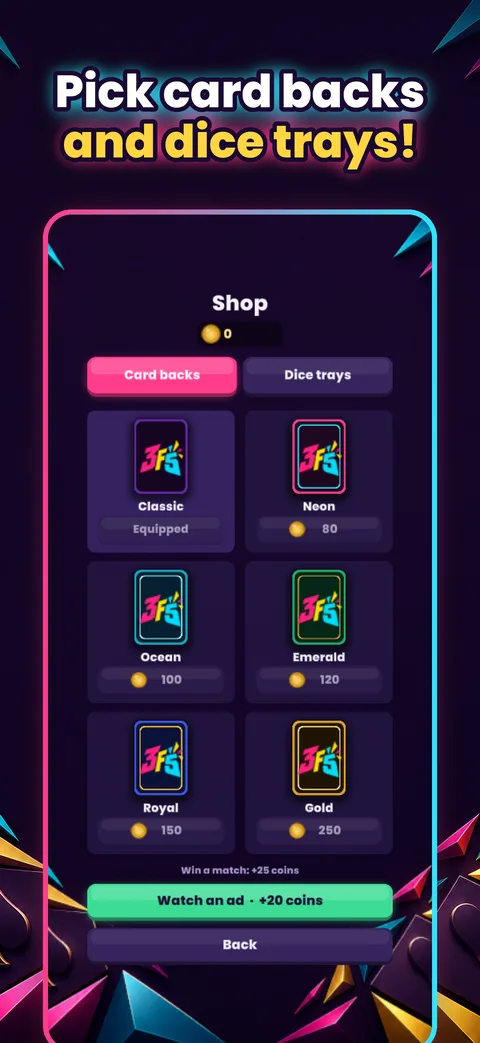
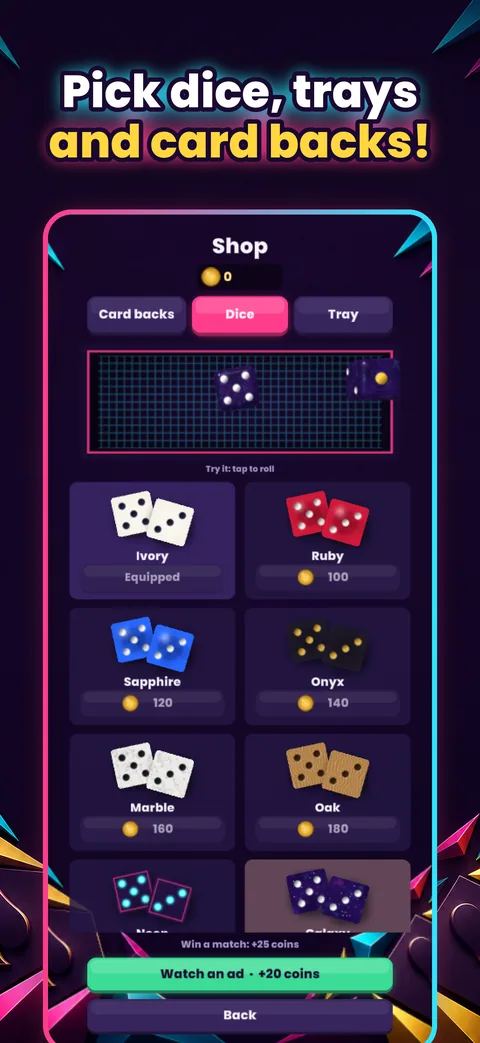
3 Force 5: kumar çağrıştıran ifadeler değişti (şans oyunu → cesaret ve strateji), yeni mağaza görselleri, zar çeşitleri

diff --git a/threeforcefive/index.html b/threeforcefive/index.html
@@ -51,8 +51,8 @@
     <div class="copy">
       <img class="logo" src="/threeforcefive/img/logo.webp" alt="3 Force 5" width="640" height="609">
       <div class="say"><span data-l="tr">Bir kart daha?</span><span data-l="en">One more card?</span></div>
-      <p data-l="tr">İskambil kartları, iki zar ve bir yazı-tura parası tek bir hızlı şans ve cesaret oyununda. Kartlarını diz, puanını büyüt; ama aynı sayıyı ikinci kez çekersen patlarsın!</p>
-      <p data-l="en">Playing cards, two dice and a coin flip in one quick game of luck and nerve. Build your row and grow your score, but draw the same number twice and you bust!</p>
+      <p data-l="tr">İskambil kartları, iki zar ve bir yazı-tura parası tek bir hızlı cesaret ve strateji oyununda. Kartlarını diz, puanını büyüt; ama aynı sayıyı ikinci kez çekersen patlarsın!</p>
+      <p data-l="en">Playing cards, two dice and a coin flip in one quick game of nerve and strategy. Build your row and grow your score, but draw the same number twice and you bust!</p>
       <ul class="chips">
         <li><span data-l="tr">Kart oyunu</span><span data-l="en">Card game</span></li>
         <li><span data-l="tr">Ücretsiz</span><span data-l="en">Free</span></li>
@@ -79,19 +79,19 @@
     <h2 class="title"><span data-l="tr">Oyundan kareler</span><span data-l="en">A look inside</span></h2>
     <div class="shots" data-l="tr">
       <img src="/threeforcefive/img/tr-1.webp" alt="5 farklı kart: FORCE 5!" width="480" height="1043" loading="lazy">
-      <img src="/threeforcefive/img/tr-2.webp" alt="Kart çek ya da dur, şansını zorla!" width="480" height="1043" loading="lazy">
+      <img src="/threeforcefive/img/tr-2.webp" alt="Kart çek ya da dur, riski sen seç!" width="480" height="1043" loading="lazy">
       <img src="/threeforcefive/img/tr-3.webp" alt="Aynı sayı mı geldi? Son şans!" width="480" height="1043" loading="lazy">
       <img src="/threeforcefive/img/tr-4.webp" alt="Parayı fırlat: yazı mı tura mı?" width="480" height="1043" loading="lazy">
       <img src="/threeforcefive/img/tr-5.webp" alt="Aynı Wi-Fi'da arkadaşlarınla oyna!" width="480" height="1043" loading="lazy">
-      <img src="/threeforcefive/img/tr-6.webp" alt="Kart arkası ve zar tepsisi seç!" width="480" height="1043" loading="lazy">
+      <img src="/threeforcefive/img/tr-6.webp" alt="Zar, tepsi ve kart arkası seç!" width="480" height="1043" loading="lazy">
     </div>
     <div class="shots" data-l="en">
       <img src="/threeforcefive/img/en-1.webp" alt="5 different cards: FORCE 5!" width="480" height="1043" loading="lazy">
-      <img src="/threeforcefive/img/en-2.webp" alt="Draw or stop, push your luck!" width="480" height="1043" loading="lazy">
+      <img src="/threeforcefive/img/en-2.webp" alt="Draw or stop, you call the risk!" width="480" height="1043" loading="lazy">
       <img src="/threeforcefive/img/en-3.webp" alt="Same number again? Last chance!" width="480" height="1043" loading="lazy">
       <img src="/threeforcefive/img/en-4.webp" alt="Flip the coin: heads or tails?" width="480" height="1043" loading="lazy">
       <img src="/threeforcefive/img/en-5.webp" alt="Play with friends on the same Wi-Fi!" width="480" height="1043" loading="lazy">
-      <img src="/threeforcefive/img/en-6.webp" alt="Pick card backs and dice trays!" width="480" height="1043" loading="lazy">
+      <img src="/threeforcefive/img/en-6.webp" alt="Pick dice, trays and card backs!" width="480" height="1043" loading="lazy">
     </div>
   </div>
 </section>
@@ -122,8 +122,8 @@
       <div class="value">
         <div class="ic"><svg viewBox="0 0 24 24" fill="none" stroke="currentColor" stroke-width="2.4" stroke-linecap="round" stroke-linejoin="round" aria-hidden="true"><circle cx="12" cy="12" r="9"/><path d="M12 7v10M9.5 9.5h4a2 2 0 0 1 0 4h-3a2 2 0 0 0 0 4h4"/></svg></div>
         <h3><span data-l="tr">Kendi masan</span><span data-l="en">Your own table</span></h3>
-        <p data-l="tr">Kazandıkça para topla; mağazadan kart arkası ve zar tepsisi seç.</p>
-        <p data-l="en">Earn coins as you win and pick card backs and dice trays in the shop.</p>
+        <p data-l="tr">Kazandıkça para topla; mağazadan zar, zar tepsisi ve kart arkası seç.</p>
+        <p data-l="en">Earn coins as you win and pick dice, dice trays and card backs in the shop.</p>
       </div>
     </div>
   </div>
